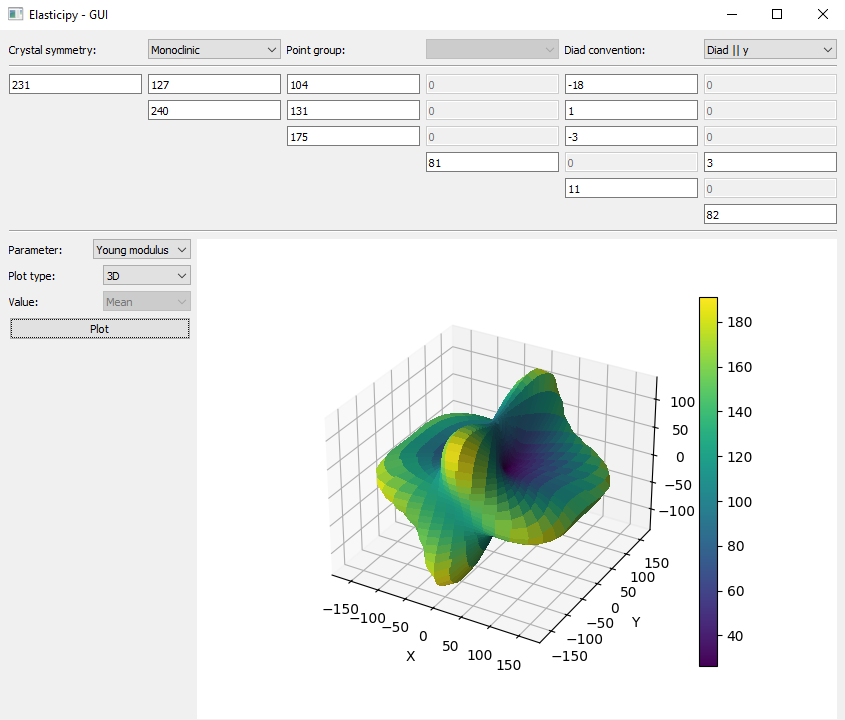
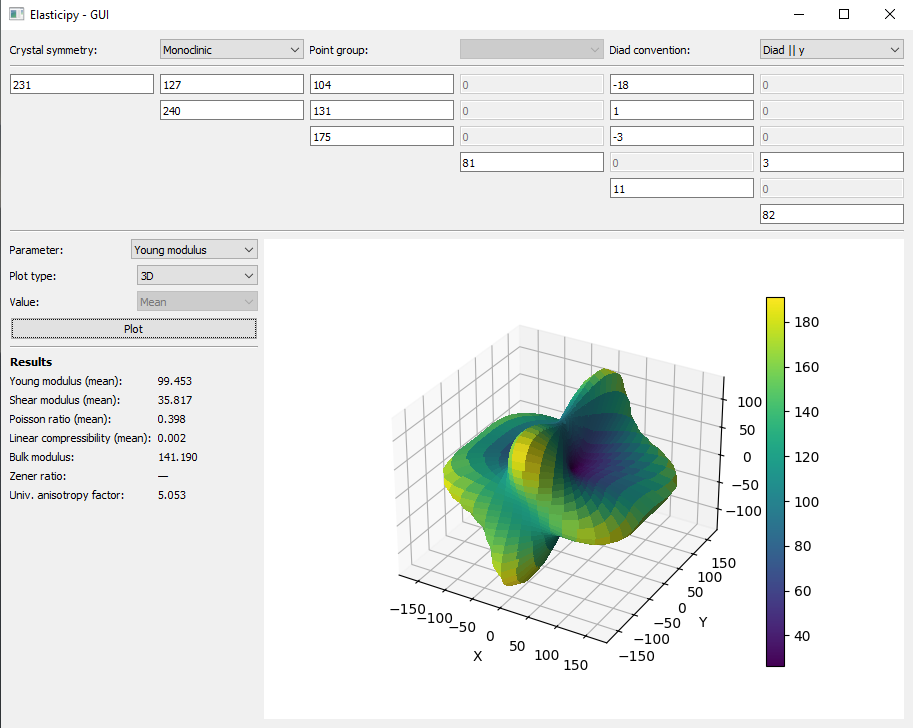
Display numerical values

diff --git a/src/Elasticipy/gui.py b/src/Elasticipy/gui.py
@@ -128,6 +128,42 @@ class ElasticityGUI(QMainWindow):
         self.calculate_button.clicked.connect(self.calculate_and_plot)
         left_panel_layout.addWidget(self.calculate_button)
 
+        # Add horizontal separator
+        separator = QFrame()
+        separator.setFrameShape(QFrame.HLine)
+        separator.setFrameShadow(QFrame.Sunken)
+        left_panel_layout.addWidget(separator)
+
+        ############################################
+        # Numeric results
+        ############################################
+        results_title = QLabel("Results")
+        results_title.setStyleSheet("font-weight: bold;")
+        left_panel_layout.addWidget(results_title)
+
+        self.result_labels = {}
+        results = [
+            ("E_mean", "Young modulus (mean):"),
+            ("G_mean", "Shear modulus (mean):"),
+            ("nu_mean", "Poisson ratio (mean):"),
+            ("Beta", "Linear compressibility (mean):"),
+            ("K", "Bulk modulus:"),
+            ("Z", "Zener ratio:"),
+            ("A", "Univ. anisotropy factor:"),
+        ]
+
+        for key, text in results:
+            row = QHBoxLayout()
+            label_name = QLabel(text)
+            label_value = QLabel("—")
+            label_value.setMinimumWidth(100)
+            self.result_labels[key] = label_value
+
+            row.addWidget(label_name)
+            row.addStretch()
+            row.addWidget(label_value)
+            left_panel_layout.addLayout(row)
+
         # Fill space
         left_panel_layout.addStretch()
         bottom_layout.addLayout(left_panel_layout)
@@ -225,6 +261,17 @@ class ElasticityGUI(QMainWindow):
                 value.plot_xyz_sections(fig=self.figure)
             else:
                 value.plot_as_pole_figure(fig=self.figure, **plot_kwargs)
+            self.result_labels["E_mean"].setText(f"{stiff.Young_modulus.mean():.3f}")
+            self.result_labels["G_mean"].setText(f"{stiff.shear_modulus.mean():.3f}")
+            self.result_labels["nu_mean"].setText(f"{stiff.Poisson_ratio.mean():.3f}")
+            self.result_labels["Beta"].setText(f"{stiff.linear_compressibility.mean():.3f}")
+            self.result_labels["K"].setText(f"{stiff.bulk_modulus:.3f}")
+            try:
+                Z = stiff.Zener_ratio()
+                self.result_labels["Z"].setText(f"{stiff.Zener_ratio():.3f}")
+            except ValueError:
+                self.result_labels["Z"].setText("—")
+            self.result_labels["A"].setText(f"{stiff.universal_anisotropy:.3f}")
             self.canvas.draw()
 
         except ValueError as inst:
